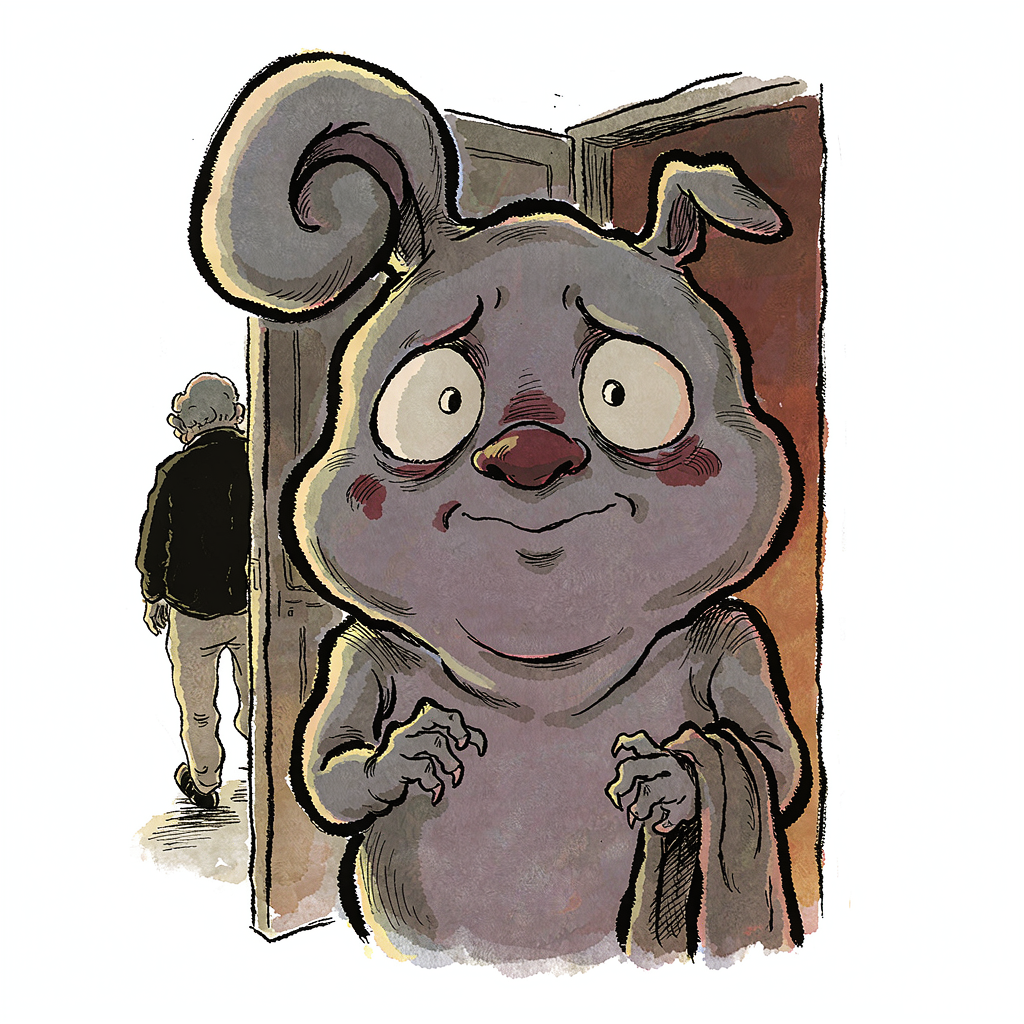
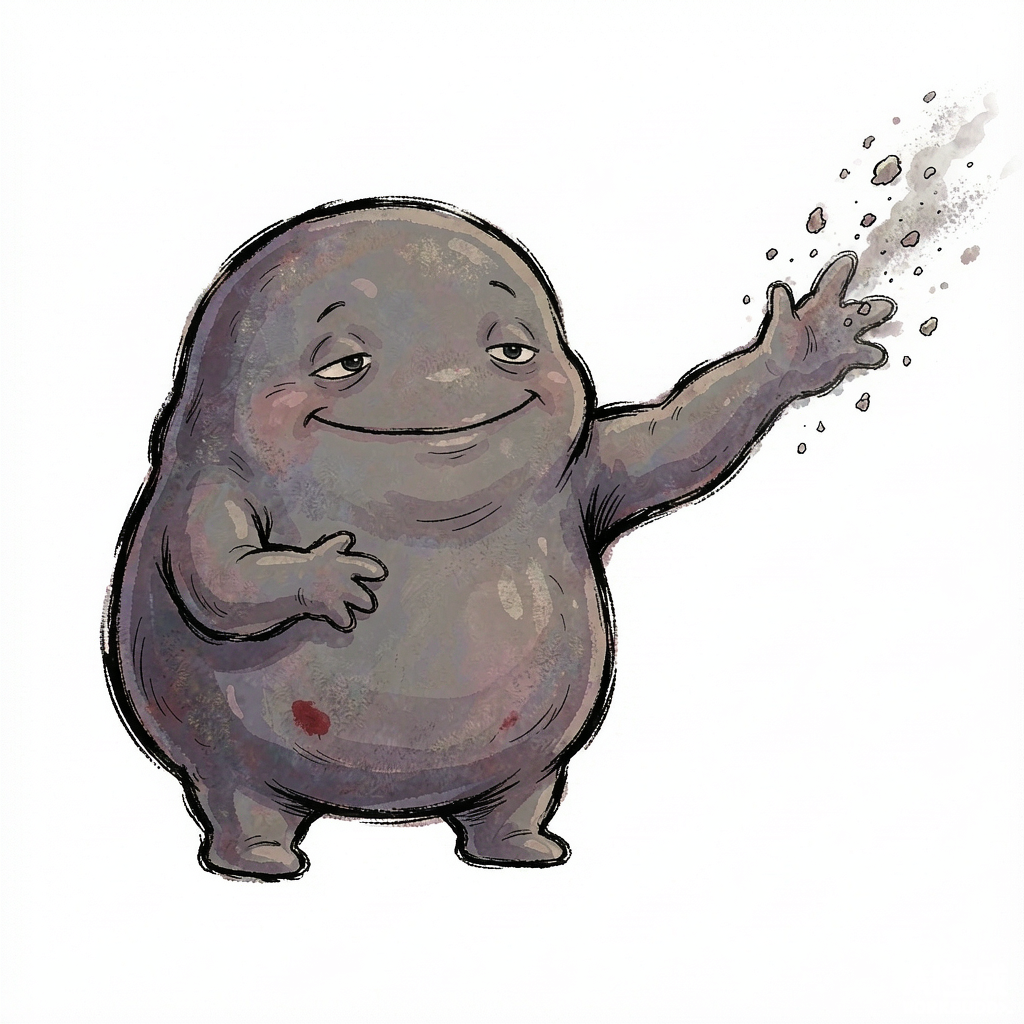
v8: 画图规范固化+照护域8只重画(身体处境版,去场景化)

diff --git a/画图规范.md b/画图规范.md
@@ -1,0 +1,106 @@
+# 劫怪画图规范（v8 · 2026-09-04 修订）
+
+> **背景**：v7 阶段后期为了表达抽象处境（照护/行政/健康），在 prompt 里加了**场景道具和其他角色**
+> （柜台、门口、长椅、流程图、老人剪影、孩子剪影）。AI 一旦进入"场景叙事"模式，就会自动：
+> 堆砌元素 → 加强光影 → 戏剧化表情 → **AI 感全回来**。
+>
+> **根本定位**：这是**角色设定图（character design sheet）**，不是插画。
+
+---
+
+## 一、铁律（每条都必须满足）
+
+| # | 铁律 |
+|---|---|
+| 1 | **单只怪**，不出现第二个角色（剪影也不行） |
+| 2 | **纯白底**，无场景、无环境 |
+| 3 | **无道具**（柜台/门/长椅/书/信封/喇叭 全部不允许） |
+| 4 | **困境用身体处境表达**，不用场景叙事 |
+| 5 | 正面全身像（full body front view） |
+| 6 | 扁平赛璐璐（FLAT cel-shading），**不要 3D 渲染感** |
+| 7 | 无戏剧化打光（NO dramatic lighting） |
+| 8 | 粗黑轮廓 + 手绘墨线感 |
+
+---
+
+## 二、标准 prompt 模板（复制后只改 `[]` 内变量）
+
+```
+Character design sheet, single creature only, plain white background, full body
+front view, NO scene NO props NO other characters. Stylized Chinese comic monster
+mascot in the style of Spirited Away and Monsters Inc, exaggerated bug-eyed
+creature with grotesque-cute proportions, NEVER anatomically correct human.
+KEY FEATURE: [身体处境描述]. [配色] body, [表情描述]. Thick bold black outlines,
+rough hand-drawn ink linework, FLAT cel-shading with minimal soft volume, one small
+dark-red accent. Appealing ugly-cute, charmingly grotesque, [情绪], NOT scary,
+NOT gory, NOT realistic, NO 3D render look, NO dramatic lighting, NO environment.
+Clean professional character design illustration, centered composition.
+```
+
+**必须保留的锁定词**（删一个就会漂移）：
+- 开头：`NO scene NO props NO other characters`
+- 结尾：`NO 3D render look, NO dramatic lighting, NO environment`
+- 中间：`NEVER anatomically correct human`、`FLAT cel-shading`
+
+---
+
+## 三、困境表达对照表（身体处境 vs 场景叙事）
+
+| 阻力 | ❌ 场景叙事（禁用） | ✅ 身体处境（正确） |
+|---|---|---|
+| 沟通 | 举喇叭 + 老人剪影 | **嘴巴拉长成喇叭状**（身体即扩音器） |
+| 决策 | 三个房子模型 / 岔路口 | **身体裂成三条腿，各朝一个方向** |
+| 执行 | 推陷在泥里的车 | **四肢僵直、关节生锈卡住** |
+| 等待 | 长椅上盯叫号屏 | **身体凝固成雕像，表面落灰** |
+| 学习 | 捧着书堆 / 拿倒文件 | **全身长满眼睛**（要同时看太多） |
+| 对抗 | 与人对指 / 天降巨印 | **胸口深陷方形印章凹痕，后倾但站住** |
+| 修复 | 缝衣服 / 补罐子 | **身上多处补丁，正在给自己打补丁** |
+| 告别 | 门口挥手 / 攥毯子 | **一只手臂延长出去，指尖在消散** |
+| 忍耐 | 爬长台阶 / 头顶石头 | **身体被压扁但关节加粗**（扛出肌肉） |
+| 求助 | 敲门 / 伸手够光 | **手臂变短够不到**，另一手攥紧胸前 |
+| 模糊 | 放大镜 / 埋在雾里 | **身体半透明、轮廓不稳定** |
+
+---
+
+## 四、已验证可用的身体处境词库
+
+| 类型 | 表达 |
+|---|---|
+| 变形 | 拉长 / 压扁 / 裂开 / 融化 / 膨胀 / 缩小 / 折叠 |
+| 增生 | 多出眼睛 / 多出手 / 多出腿 / 身上长物 |
+| 缺损 | 缺一块 / 消散 / 变透明 / 断裂 / 空洞 |
+| 痕迹 | 印章凹痕 / 补丁 / 缝合线 / 裂纹 / 磨损 |
+| 状态 | 凝固 / 僵直 / 抖动 / 瘫软 / 紧绷 |
+| 附着 | 身上长满（苔藓/灰尘/冰霜/铜锈） |
+
+---
+
+## 五、情绪调性（方案底层：道家）
+
+**画"有尊严的困境"，不画"可怜的受害者"。**
+
+- 忍耐 → 不画痛苦，画**已经走了多远**
+- 告别 → 不画崩溃，画**温暖的放手**
+- 修复 → 不画自责，画**专注地补**
+- 对抗 → 不画被压垮，画**愤而不屈**
+- 求助 → 不画卑微，画**硬着头皮伸出手**
+
+---
+
+## 六、命名规则
+
+`[星曜]·[事核心字]`
+- 星曜借用紫微名作**文化符号**（推算体系不用紫微，名字可借用）
+- 星曜可跨域复用（如"陀罗"用于 FAM-09 / BLF-09 / HEA-09）
+- 后缀字**尽量不重复**，便于辨识
+
+---
+
+## 七、分域合规红线
+
+| 域 | 红线 | prompt 硬约束 |
+|---|---|---|
+| **健康 HEA** | 不画疾病/症状/治疗 | `No medical equipment, no illness, no symptoms` |
+| **信仰 BLF** | 不出现任何宗教标志 | `No religious symbols of any kind` |
+| **照护 CAR** | 不画病床/医疗器具 | `No medical equipment` |
+| 所有域 | 不血腥、不恐怖、不可爱风 | `NOT scary, NOT gory, NOT cute-kawaii` |
